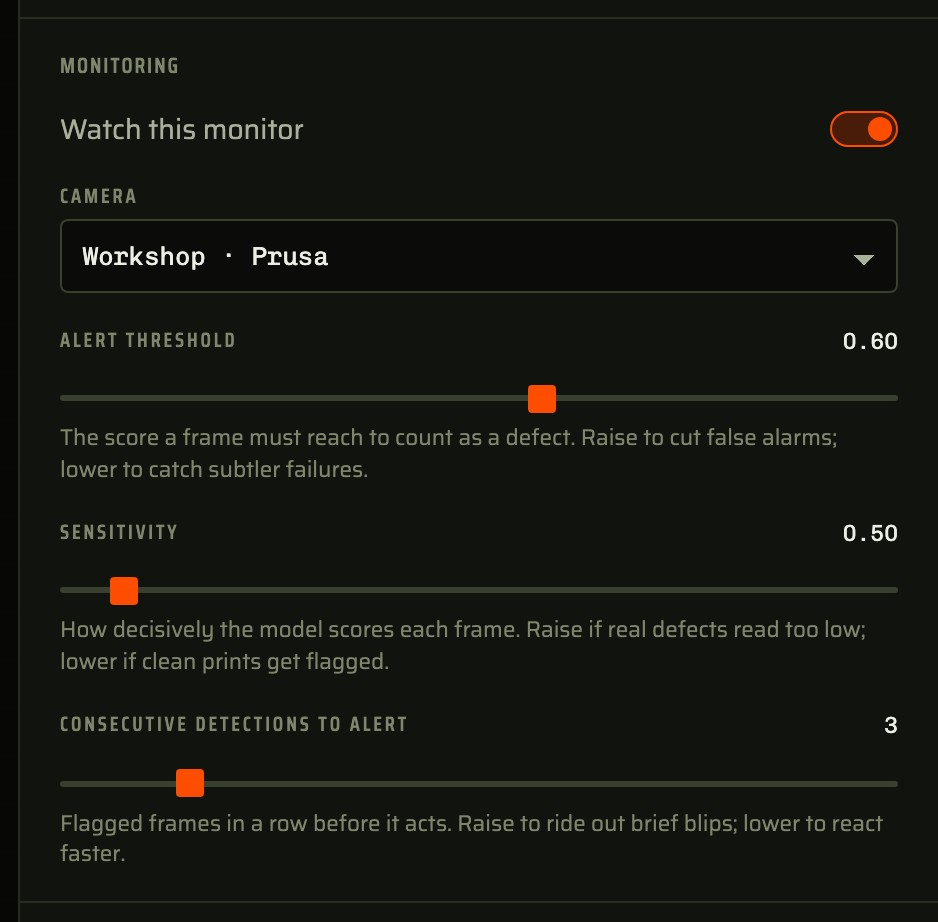
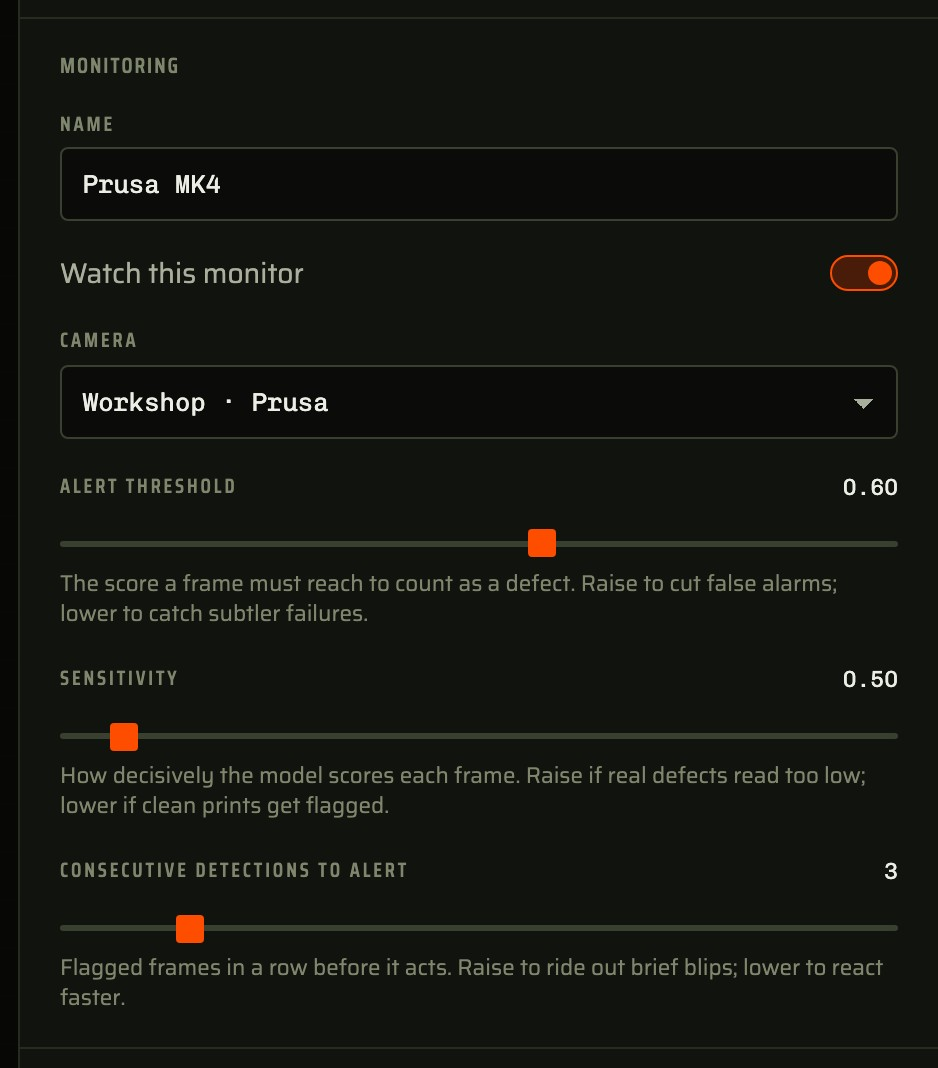
Let a camera or a monitor be renamed after it is created

diff --git a/web/src/components/CamerasDialog.tsx b/web/src/components/CamerasDialog.tsx
@@ -6,6 +6,7 @@ import { publishStream, published, stopPublishing } from "../stream";
 import { sourceLabel } from "./CameraRail";
 import { CropEditor } from "./CropEditor";
 import { Dialog } from "./Dialog";
+import { NameField } from "./NameField";
 import { SaveStatus } from "./SaveStatus";
 
 function slug(name: string): string {
@@ -65,7 +66,7 @@ function CameraRow({ camera, focus }: { camera: Camera; focus: boolean }) {
         )}
         {owner && <span className="chip" title="Managed by its printer integration, remove the printer to remove this camera">via {owner.name}</span>}
         <button className="btn !py-1 !px-2.5 !text-[0.62rem]" onClick={() => setOpen((v) => !v)}>
-          {open ? "Hide" : "Adjust"}
+          {open ? "Hide" : "Edit"}
         </button>
         {!owner && (
           <button
@@ -82,6 +83,7 @@ function CameraRow({ camera, focus }: { camera: Camera; focus: boolean }) {
       </div>
       {open && (
         <div className="px-3 pb-3 pt-1 border-t border-line-0 space-y-3">
+          <NameField name={camera.name} onRename={(name) => updateCamera(camera.id, { name })} />
           <Slider
             label="Brightness"
             value={camera.brightness ?? 1}

diff --git a/web/src/components/DetailPanel.tsx b/web/src/components/DetailPanel.tsx
@@ -4,6 +4,7 @@ import type { Monitor } from "../types";
 import { Modal } from "./Dialog";
 import { Feed } from "./Feed";
 import { DeviceChip } from "./MonitorTile";
+import { NameField } from "./NameField";
 import { PluginNodeView, usePluginSurface } from "./PluginNode";
 import { RiskGauge } from "./RiskGauge";
 import { SaveStatus } from "./SaveStatus";
@@ -148,6 +149,7 @@ export function DetailPanel({ monitor }: { monitor: Monitor }) {
 
         <Section title="Monitoring">
           <div className="space-y-4">
+            <NameField name={monitor.name} onRename={(name) => updateMonitor(monitor.id, { name })} />
             <Toggle label="Watch this monitor" on={monitor.enabled} onChange={(v) => updateMonitor(monitor.id, { enabled: v })} />
             {monitor.enabled && monitor.watching === false && (
               <p className="mono text-[0.7rem] text-text-2">

diff --git a/web/src/components/NameField.tsx b/web/src/components/NameField.tsx
@@ -1,0 +1,26 @@
+import { useEffect, useState } from "react";
+
+export function NameField({ name, onRename }: { name: string; onRename: (name: string) => void }) {
+  const [draft, setDraft] = useState(name);
+
+  useEffect(() => setDraft(name), [name]);
+
+  const commit = () => {
+    const next = draft.trim();
+    if (next && next !== name) onRename(next);
+    else setDraft(name);
+  };
+
+  return (
+    <label className="block">
+      <span className="label block mb-1">Name</span>
+      <input
+        className="field"
+        value={draft}
+        onChange={(e) => setDraft(e.target.value)}
+        onBlur={commit}
+        onKeyDown={(e) => e.key === "Enter" && e.currentTarget.blur()}
+      />
+    </label>
+  );
+}

diff --git a/CHANGELOG.md b/CHANGELOG.md
@@ -16,6 +16,8 @@ The format is [Keep a Changelog](https://keepachangelog.com/en/1.1.0/); versions
   user key into the Alerts tab in Settings. Defect snapshots arrive as an attachment. Priority
   covers every notice the channel carries, warnings and recoveries included, and defaults to
   High, which bypasses the quiet hours set on the device. It works in both hub and local mode.
+- Renaming a camera or a monitor. The name sits behind **Edit** in the camera registry and at
+  the top of a monitor's settings.
 
 ## [2.4.0] - 2026-08-24
 

diff --git a/docs/printers.md b/docs/printers.md
@@ -21,7 +21,8 @@ how alerts are wired up.
 
 A camera and a printer are registered once each, then bound together by a monitor. One
 printer connection can back several monitors, and a monitor without a printer still watches
-and alerts.
+and alerts. Each of the three carries a name you can change later, from **Edit** in the camera
+or printer registry and from a monitor's settings panel.
 
 ```mermaid
 flowchart LR
